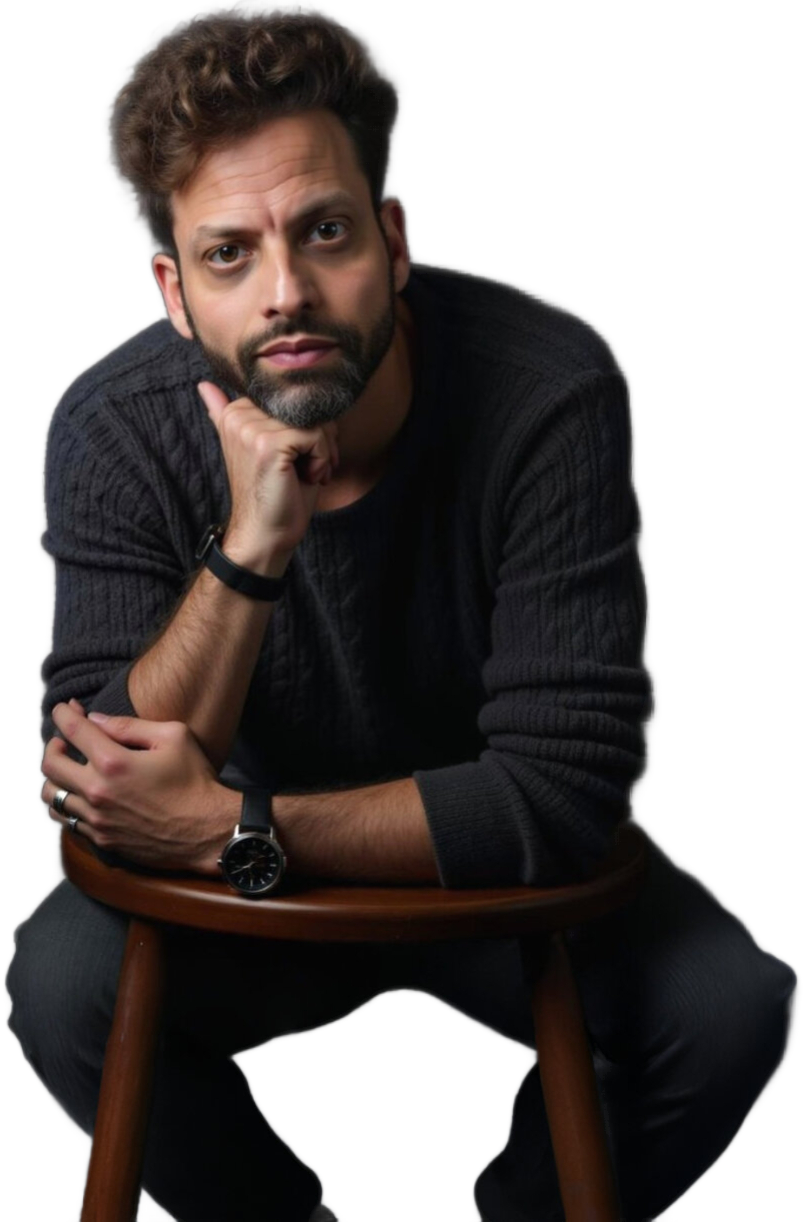
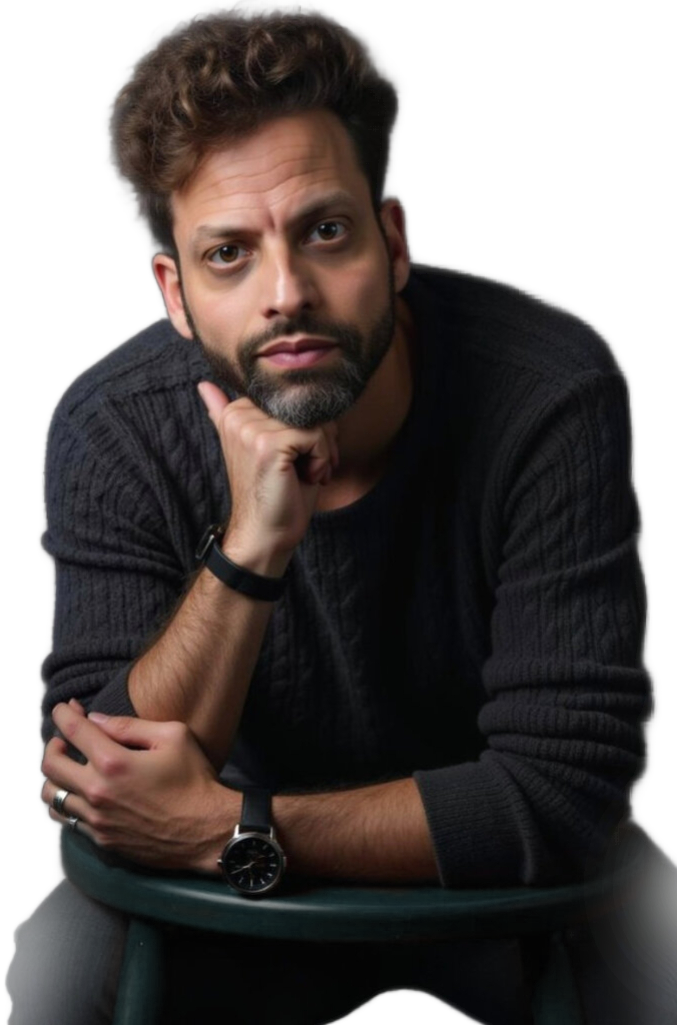
fix hero layout and design 24

diff --git a/app/page.tsx b/app/page.tsx
@@ -6,8 +6,7 @@ import { BsCodeSlash } from "react-icons/bs";
 import Link from "next/link";
 import Social from "@/components/Social";
 import ParticlesContainer from '@/components/ParticlesContainer'
-import heroImage from '@/public/hero-image-1.png'
-import polygonBackground from '@/public/polygon-background.png'
+import heroImage from '@/public/hero-image.webp'
 import HeroIcons from "@/components/HeroIcons";
 import ResumeButtonDownload from "@/components/ResumeButtonDownload";
 
